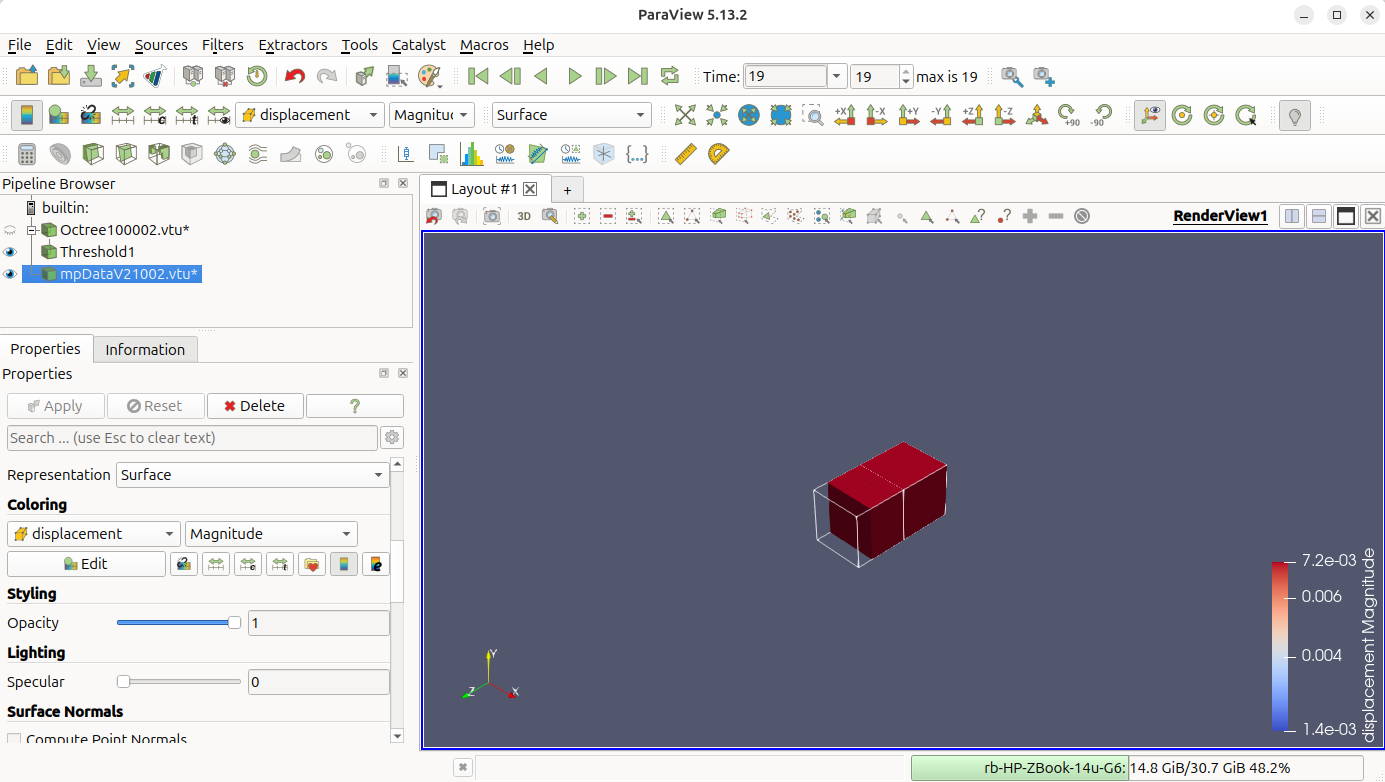
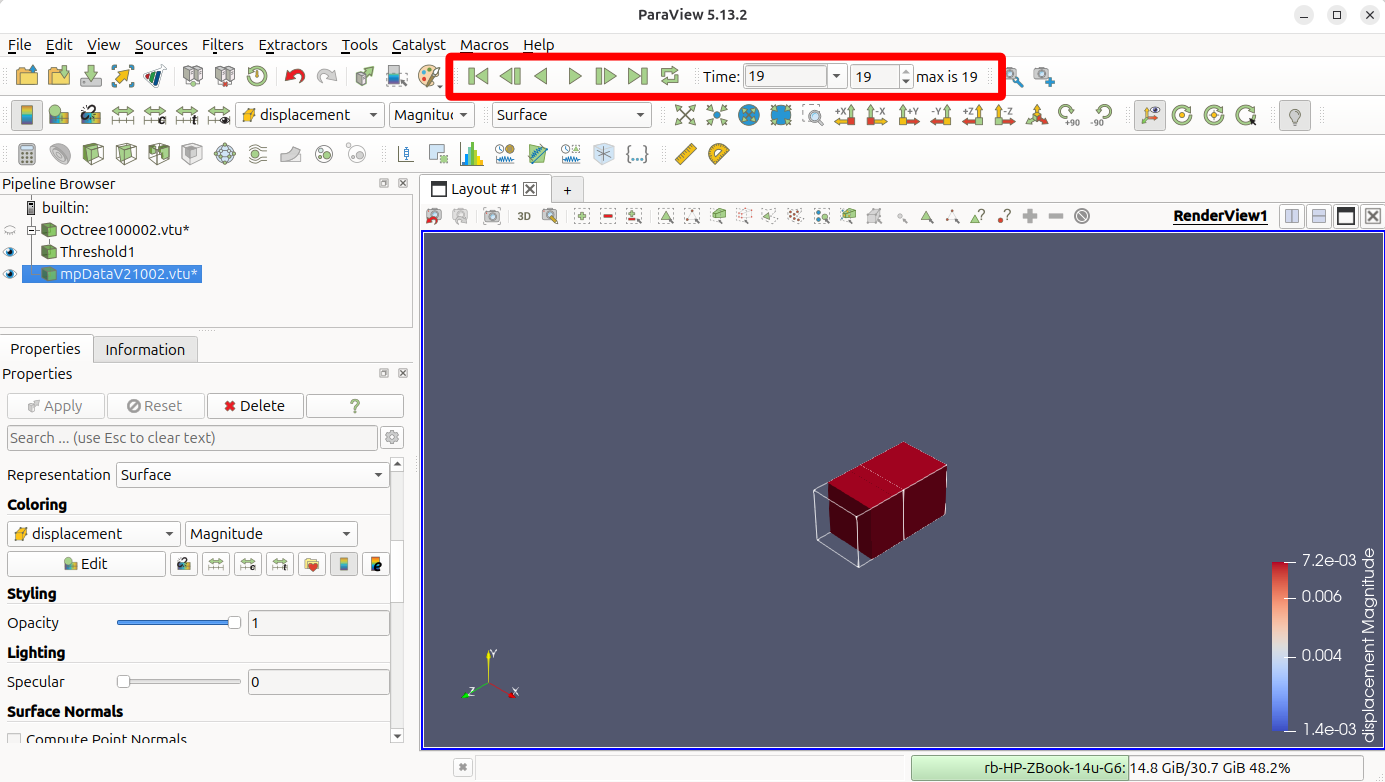
updating the picutres

Changed region(s): [[0.3105, 0.0614, 0.7451, 0.1535]]

diff --git a/docs/docs/TutorialProblems/Tutorial_1.md b/docs/docs/TutorialProblems/Tutorial_1.md
@@ -534,10 +534,10 @@ The output files can be opened in [ParaView](https://www.paraview.org/) to inspe
 
 <div class="walkthrough" markdown>
 <div markdown>
-**3. Apply the readers.** Click *Apply* in the Properties panel for each reader. The full GIMP domain appears as a solid grey cube and the cell/point arrays `displacement`, `strain`, `E` and `rho` become available.
+**3. Apply the readers.** Click *Apply* in the Properties panel for each reader. The full mesh domain appears as a solid grey cube which covers all the GIMPM data under it.
 </div>
 <div markdown>
-![Both VTU files loaded; the solid grey cube is the full GIMP domain.](../../img/screen_shot_3.png){ #fig-paraview-3 width="100%" }
+![Both VTU files loaded; the solid grey cube is the full mesh domain.](../../img/screen_shot_3.png){ #fig-paraview-3 width="100%" }
 </div>
 </div>
 
@@ -561,7 +561,7 @@ The output files can be opened in [ParaView](https://www.paraview.org/) to inspe
 
 <div class="walkthrough" markdown>
 <div markdown>
-**6. Colour the GIMPs by displacement.** Select `mpDataV..vtu`, change *Coloring* to `displacement` → `Magnitude`. At step 0 (undeformed) the GIMPs sit near the low end of the colour bar.
+**6. Colour the GIMPs by displacement.** Select `mpDataV..vtu`, change *Coloring* to `displacement` → `Magnitude`. At the end of step 0 (undeformed) the GIMPs are only marginally displaced.
 </div>
 <div markdown>
 ![GIMP data coloured by displacement magnitude at the initial step.](../../img/screen_shot_6.png){ #fig-paraview-6 width="100%" }
@@ -570,7 +570,7 @@ The output files can be opened in [ParaView](https://www.paraview.org/) to inspe
 
 <div class="walkthrough" markdown>
 <div markdown>
-**7. Advance to the final step.** Use the time controls at the top (set time to the maximum, `19`, for the last of the 20 increments). The GIMPs shift to the high end of the colour bar, showing the maximum self-weight deformation.
+**7. Advance to the final step.** Use the time controls at the top, maked by the red box, abd set time to the maximum, `19`, for the last of the 20 increments. The GIMPs shift to the high end of the colour bar, showing the maximum self-weight deformation.
 </div>
 <div markdown>
 ![GIMP data at the final step - column fully deformed.](../../img/screen_shot_7.png){ #fig-paraview-7 width="100%" }
